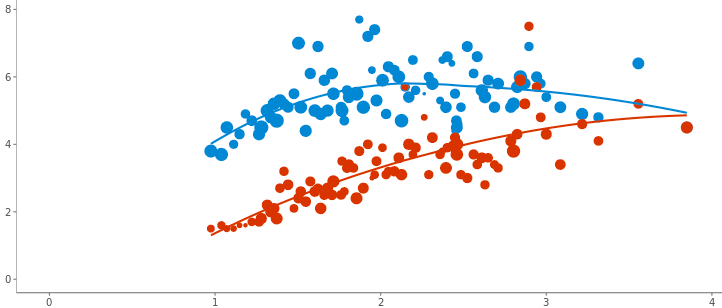
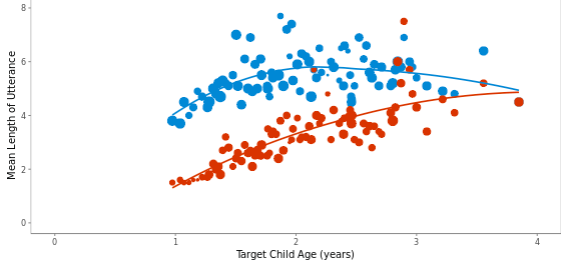
add labels to axes

diff --git a/index.html b/index.html
@@ -211,7 +211,7 @@
 							Explore the data in <code>childes-db</code> using our interactive applications.
 						</p>
 						<div class="clear"></div>
-						<img style="margin-top: 20px" src="img/plot.png" alt="Logo">
+						<img style="margin-top: 20px; max-height:180px" src="img/plot.png" alt="Logo">
 						<!-- <i class="ico-stats ico-white circle-color-full big-color"></i> --></a>
 					</div>
         		</div>
